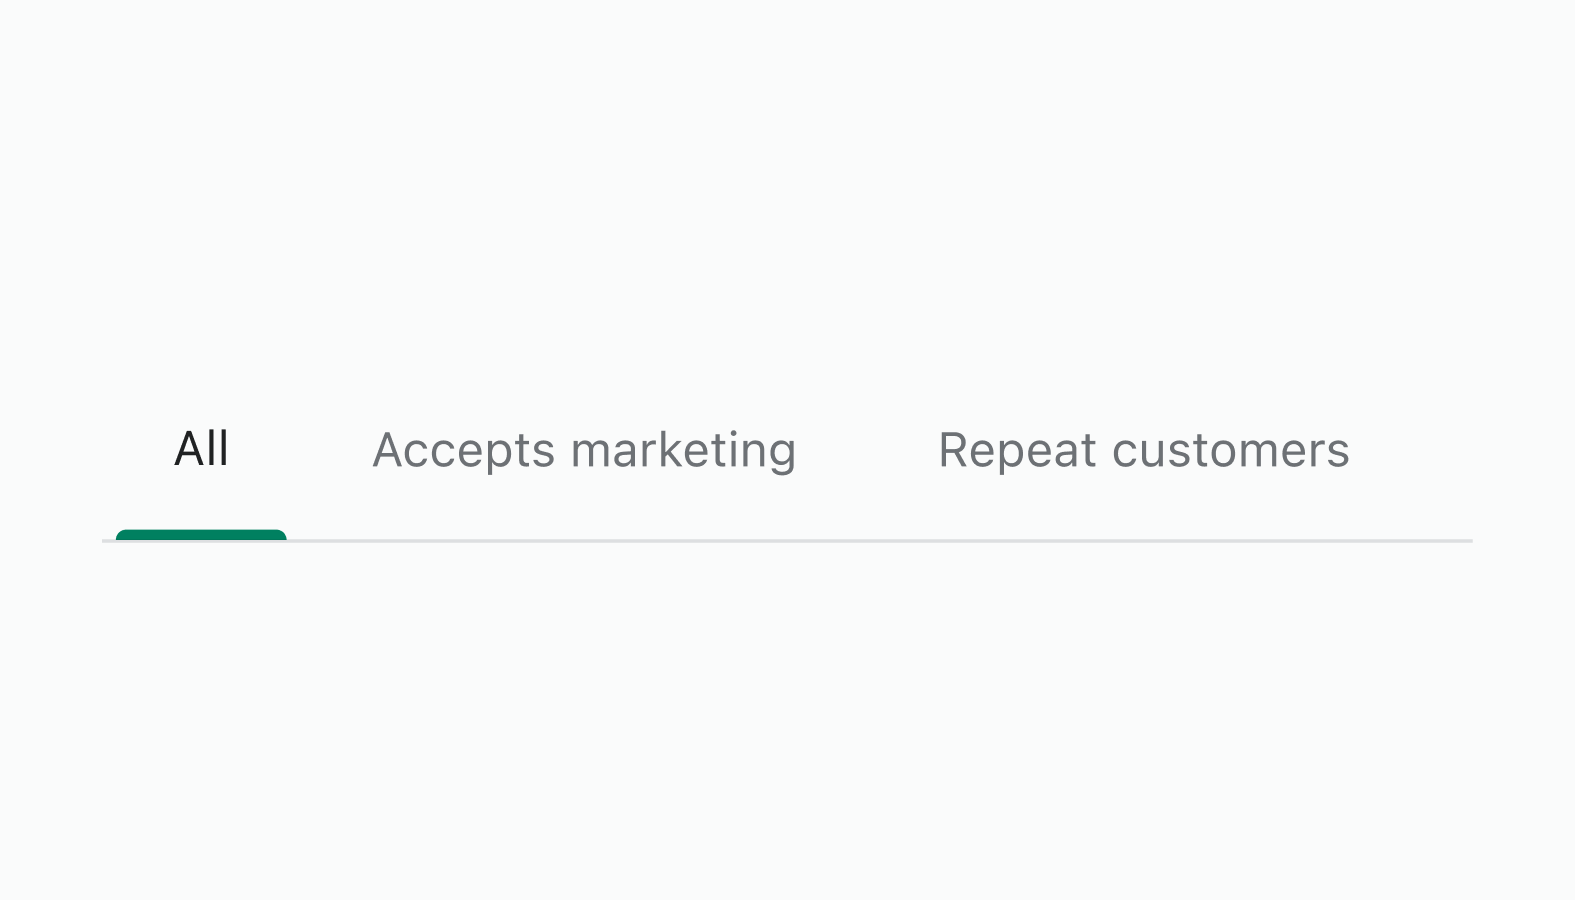
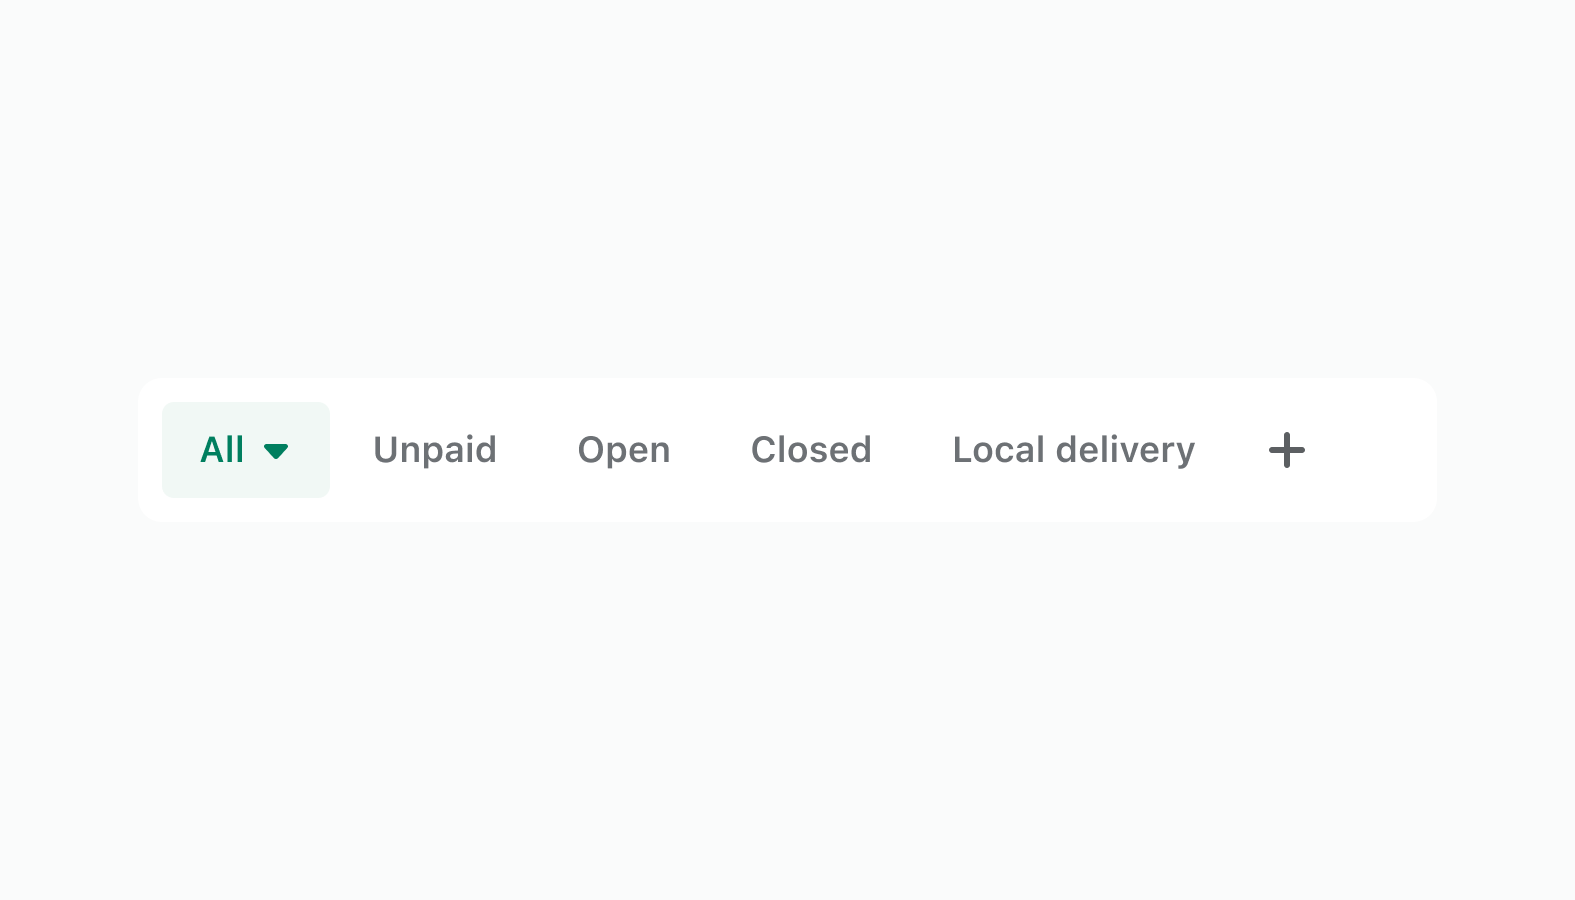
chore: update docs and screenshots

diff --git a/polaris.shopify.com/content/components/selection-and-input/index-filters.md b/polaris.shopify.com/content/components/selection-and-input/index-filters.md
@@ -46,14 +46,13 @@ You can create views and control which actions can be performed on a particular 
 
 ## Anatomy
 
-<-- insert ![A diagram of the IndexFilters component showing the components it is composed of.](/images/components/selection-and-input/index-filters/index-filters-anatomy.png) -->
+![A diagram of the IndexFilters component showing the components it is composed of.](/images/components/selection-and-input/index-filters/index-filters-anatomy.png)
 Index filters are made up of the following:
 
 1. **Tabs**: A list of saved views. Each tab represents a subset of the list that has been sorted, filtered, and or queried and saved with a unique name. New views can be created directly from the tab list, or by editing the filters, query, or sort selection of an existing view and saving it as new.
-2. **Search and filter button**: The search and filter button allows merchants to toggle the index table from "View" mode to "Filter" mode. When clicked, the button reveals the search field and the filters that allow merchants to edit or create saved views.
-3. \*Search field\*\*: A text field that filters the list of items by the input as merchants type.
-4. **Filters**: A set of useful ways to narrow down the list based on the common actions merchants may need to take on the data. The filters should present merchants with form inputs that help them include or exclude list items from the view based on their data.
-5. **Sort button**: A button that activates a popover displaying a list of options merchants can choose from to sort the list items. Merchants can also choose whether the list should be sorted in ascending or descending order.
+2. **Search and filter, and sort buttons**: The search and filter button allows merchants to toggle the index table from "View" mode to "Filter" mode. When clicked, the button reveals the search field and the filters that allow merchants to edit or create saved views. The sort button activates a popover displaying a list of options merchants can choose from to sort the list items. Merchants can also choose whether the list should be sorted in ascending or descending order.
+3. **Filters**: A set of useful ways to narrow down the list based on the common actions merchants may need to take on the data. The filters should present merchants with form inputs that help them include or exclude list items from the view based on their data.
+4. **Action buttons**: Primary and secondary actions that a merchant can take on the current view. The primary action will always be either "Save" or "Save as" depending on whether the view is mutable, and the secondary action will always be "Cancel".
 
 ---
 
